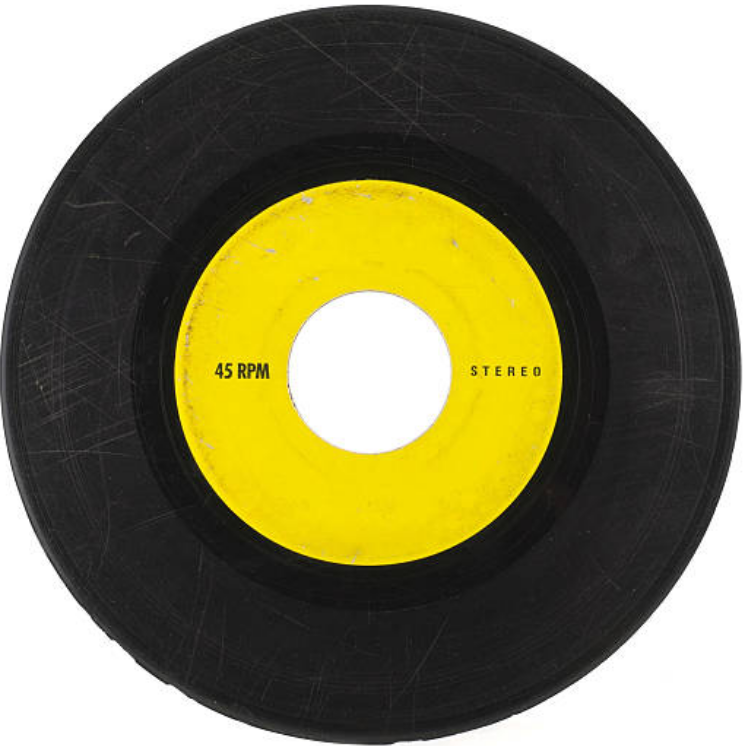
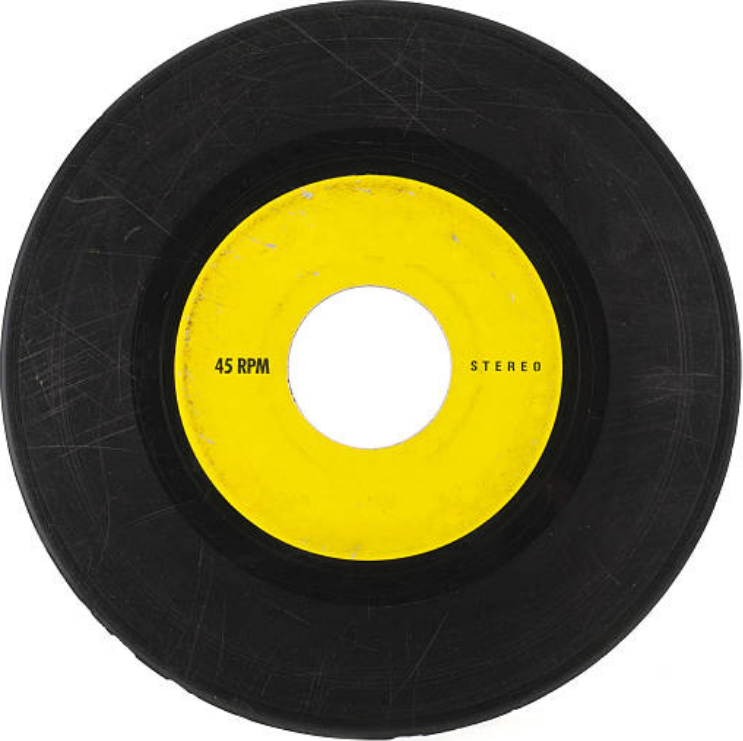
added

diff --git a/Washington Square Park /style.css b/Washington Square Park /style.css
@@ -297,3 +297,113 @@ body {
 #text-box1938 p {
   font-size: 60px;
 }
+
+/* 1946 */
+.navigation-bar {
+  position:relative;
+  display:block;
+  height: 200px;
+  width: 90vw;
+  margin:0 auto;
+  top:2vh;
+}
+.navigation-bar a{
+  position: relative;
+  display:inline;
+  height: 150px;
+  width: 200px;
+  color: white;
+  text-decoration: none;
+  font-size:80px;
+  margin:10px;
+  float:left;
+  font-family: 'Futura',Helvetica,sans-serif;
+  text-align: center;
+}
+.navigation-bar a:hover {
+  cursor:pointer;
+}
+
+#homebutton img{
+  position: relative;
+  display:inline;
+  width: 150px;
+  height:150px;
+}
+
+.layout1938 {
+  position:relative;
+  margin: 0 auto;
+  width: 100vw;
+  height:1500px;
+  top: 100px;
+  color: white;
+  z-index:-1;
+}
+
+#audio1946 {
+  position: absolute;
+  display:inline;
+  width: 800px;
+  height: 800px;
+  border-radius: 100%;
+  left: 6vh;
+}
+#audio1946 img{
+  position: absolute;
+  display:inline;
+  width: 800px;
+  height: 800px;
+  border-radius: 100%;
+  opacity:1;
+}
+
+#txt1946 {
+  position: absolute;
+  display: block;
+  width: 800px;
+  height: 800px;
+  text-align: left;
+  top:40vh;
+}
+#txt1946 h1 {
+  position: relative;
+  display: inline;
+  font-size: 300px;
+  line-height: 100px;
+}
+#txt1946 p {
+  position: relative;
+  display: block;
+  font-size: 60px;
+  left:5vw;
+}
+#map1946 {
+  position: absolute;
+  display:block;
+  width: 98vw;
+  height: 700px;
+  top: 8vh;
+  left:-0.5vh;
+}
+#map1946 img{
+  position:absolute;
+  display: block;
+  width: 100vw;
+  height:800px;
+  top: 80vh;
+}
+#text-box1946{
+  position:absolute;
+  display:block;
+  width: 90vw;
+  height:350px;
+  top:135vh;
+  left: 5vw;
+}
+#text-box1946 h2 {
+  font-size: 100px;
+}
+#text-box1946 p {
+  font-size: 60px;
+}

diff --git a/Washington Square Park /1946.html b/Washington Square Park /1946.html
@@ -7,8 +7,8 @@
 
 <body>
   <div class="navigation-bar">
-    <div id="1946button">
-      <a href="1946.html"> 1946 </a>
+    <div id="1938button">
+      <a href="1938.html"> 1938 </a>
     </div>
     <div id="1965button">
       <a href="#"> 1965 </a>
@@ -23,24 +23,24 @@
     </div>
   </div>
 
-  <div class="layout1938">
-    <div id="audio1938">
-      <img src="RPM.jpg">
+  <div class="layout1946">
+    <div id="audio1946">
+      <img src="LP Record.png">
     </div>
 
-    <div id="txt1938">
-      <h1> 1938 </h1>
+    <div id="txt1946">
+      <h1> 1946 </h1>
       <p> PUT in one of your earphones </p>
       <p> SIT in the designated area as shown in the map below </p>
       <p> ENJOY the audio </p>
     </div>
 
-    <div id="map1938">
+    <div id="map1946">
       <img src="Map 1.png">
     </div>
 
-    <div id="text-box1938">
-      <h2> Life in the 1930s </h2>
+    <div id="text-box1946">
+      <h2> Life in the 1940s </h2>
       <p>
         It was during the 1930s when the world fell into the Great Depression.
         Ever since the Depression hit the world in 1929, the state of New York's financial
